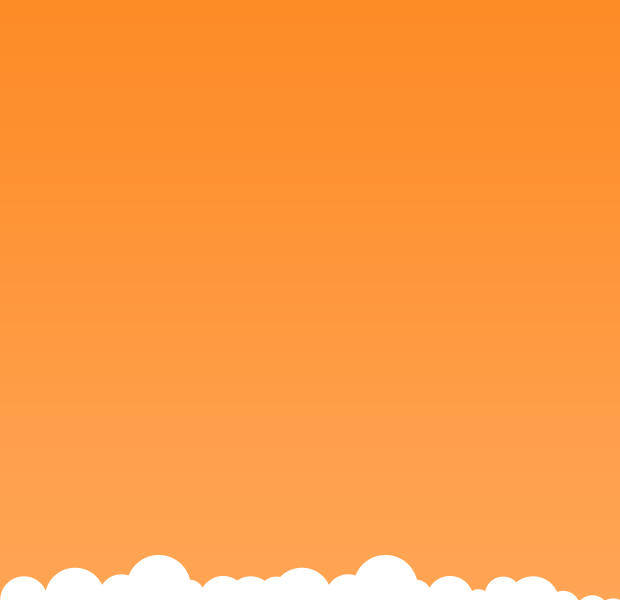
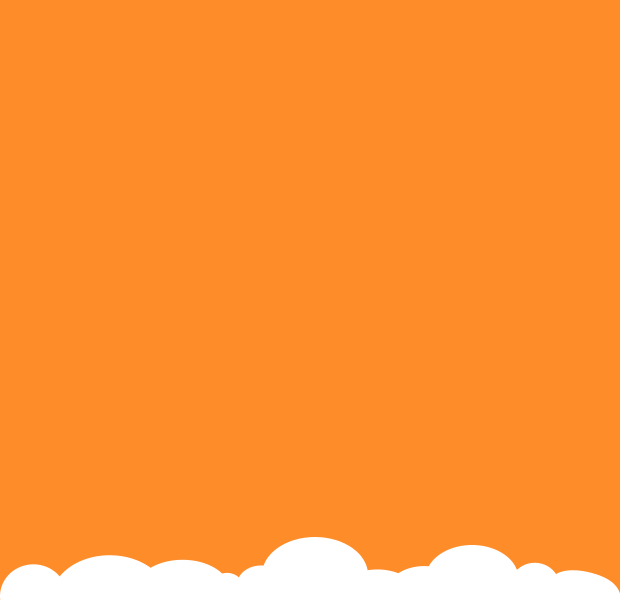
style(login): 登录调整

diff --git a/manager-seller/src/views/login/login.vue b/manager-seller/src/views/login/login.vue
@@ -203,7 +203,7 @@
     z-index: 0;
     height: $banner-height;
     .banner-item {
-      background: repeat-x center top;
+      // background: repeat-x center top;
       height: $banner-height;
       .banner-img {
         background: no-repeat center top;
@@ -213,13 +213,13 @@
       &.item-1 {
         background-image: url("../../assets/login-banner_01_repeat.png");
         .banner-img {
-          background-image: url("../../assets/login-banner_01.jpg");
+          background-image: url("../../assets/login-banner_01.png");
         }
       }
       &.item-2 {
         background-image: url("../../assets/login-banner_02_repeat.png");
         .banner-img {
-          background-image: url("../../assets/login-banner_02.jpg");
+          background-image: url("../../assets/login-banner_02.png");
         }
       }
     }
